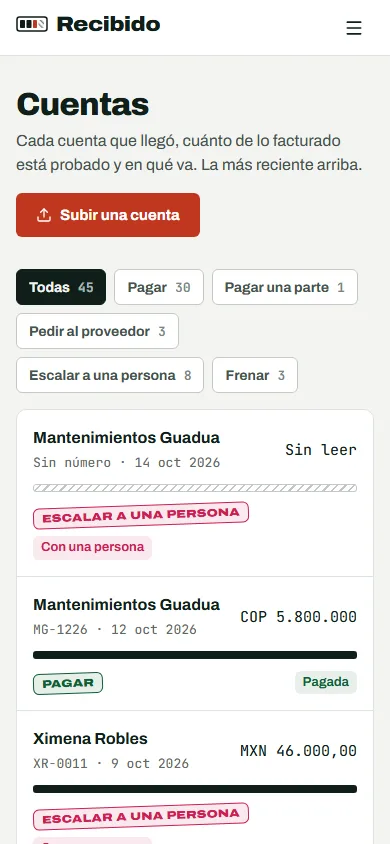
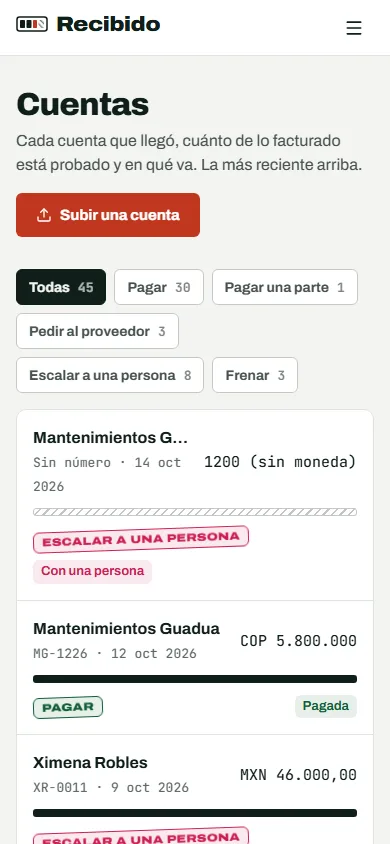
docs: motion rules, demo clock display and uncertain approvals

diff --git a/docs/DESIGN.md b/docs/DESIGN.md
@@ -87,7 +87,18 @@ its 10 % tint in both themes, and the closest pair under simulated deuteranopia 
   ease-out. Only on a decision change, never on re-render or poll refresh.
 - Status chips cross-fade 150 ms when a bill changes status live (the PR merge moment).
 - Buttons: 120 ms background/transform; press scales to 0.98.
-- `prefers-reduced-motion: reduce` → no fill or stamp animation, final state immediately.
+- Entrances (`.rise-in`: fade + rise 6–14 px, `--dur` 240–400 ms, ease-out, `--delay` for a
+  stagger capped at 320 ms). Landing: the hero (headline, line, actions) once on load; the five
+  outcome stamps in "Cómo decide" land one after another (70 ms) the first time the list is 40 %
+  visible; the "Medido" figures fade up (never count up). App: each screen rises 8 px on
+  navigation; ledger rows stagger 30 ms on first show; the reconciliation chain's five cards
+  appear 60 ms apart when a line is selected. Live lists (activity, conversations, decision
+  history, ledger) animate only items that arrive while you watch (`useFresh` in
+  `apps/web/lib/motion.tsx`), never on a poll; a tour step completed live pops its check mark.
+- Not done on purpose: no hover lift on cards (no card is clickable; a lift would promise a
+  click), nothing loops, no counters, no loaders.
+- `prefers-reduced-motion: reduce` → no fill, stamp or entrance animation, final state
+  immediately.
 
 ## Landing (`/`, Persuade)
 

diff --git a/docs/STATUS.md b/docs/STATUS.md
@@ -59,6 +59,13 @@ The SDD ledger with every review round and ruling is local in
   `PUBLIC_WEB_URL`; portal links are HMAC-signed.
 - The matcher prompt (matcher-2) no longer lets a unit guess alone lower confidence; code still
   checks hours and rates. Truth labels were never edited to match the model.
+- Demo clock: each tour step sets the org clock to its own scripted time (Daniela answers on
+  Oct 6 after the October bills arrived up to Oct 14), and business logic uses that time. The
+  "Hoy en la demo" display (tour and overview `clock.now`) shows the latest moment reached, the
+  max of the org clock and the timeline (`shownNow` in `apps/api/src/services/views.ts`), so it
+  never goes backwards on screen.
+- A person cannot approve an escalated bill whose total or currency was not read, or whose total
+  confidence is under the policy minimum (409); they ask for the formal bill or reject it.
 
 ## What only you can do
 
